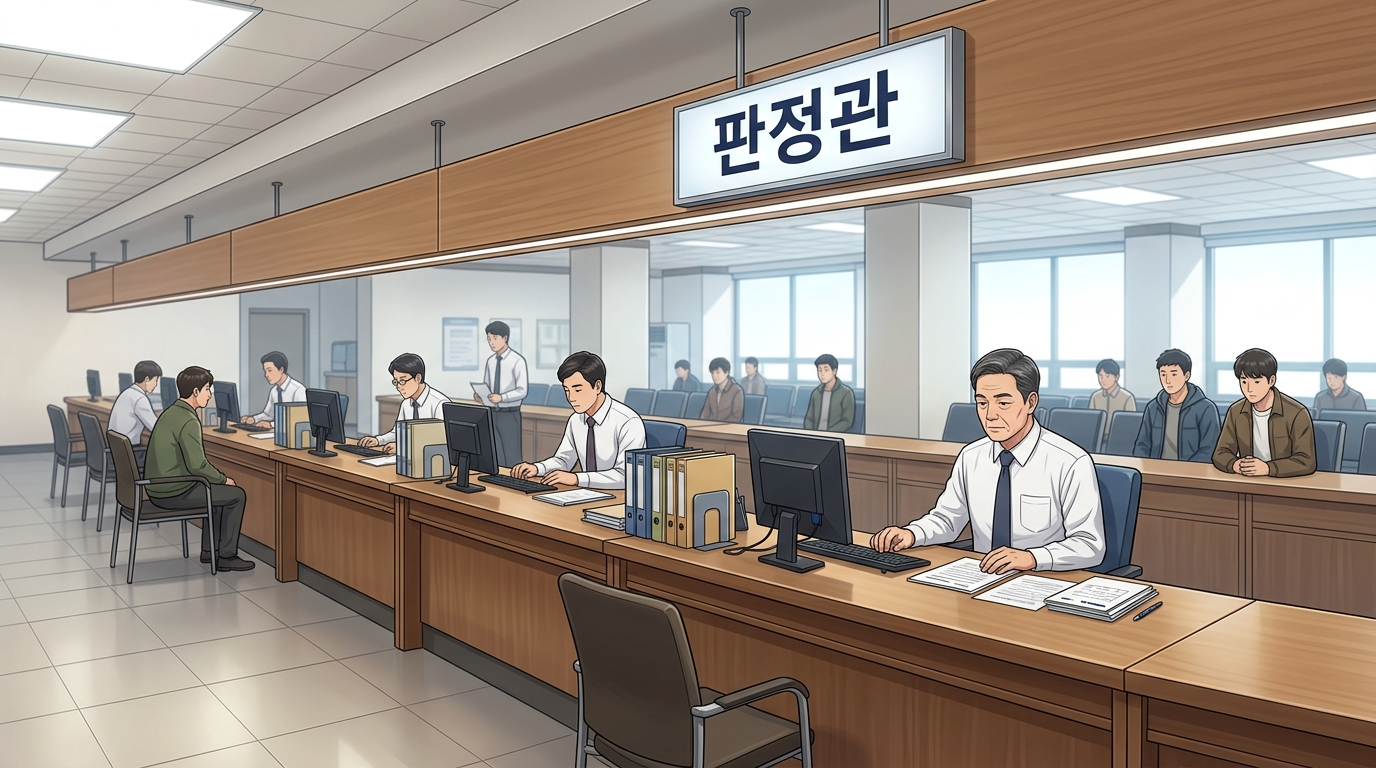
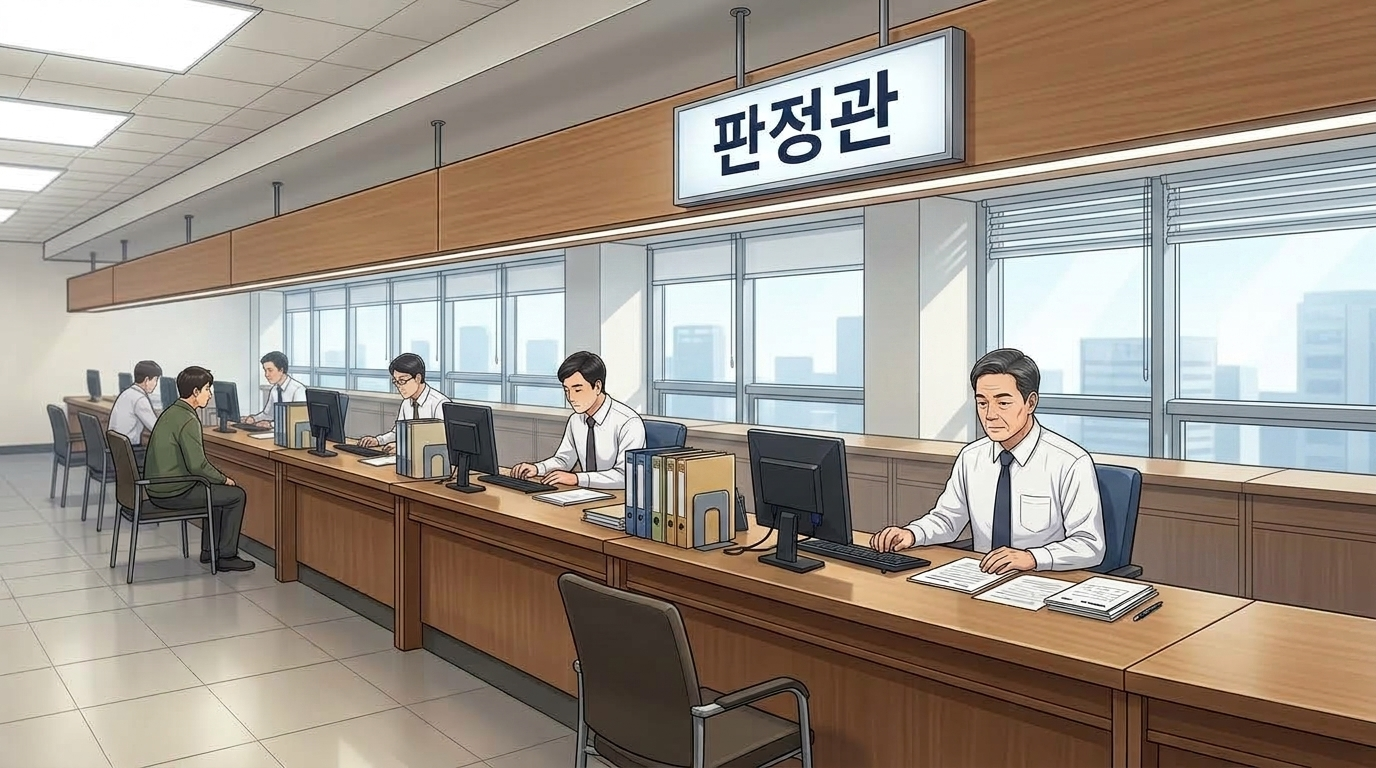
Design: 수석판정관실 배경 수정 - 뒤편 대기 인원 제거 및 판정관 뒷자리 통창(창문) 배치

diff --git a/index.html b/index.html
@@ -1170,7 +1170,7 @@
 
   <!-- ================= [SCRIPT: 비주얼 노벨 인터랙티브 엔진] ================= -->
   <script>
-    const ASSET_VER = '20260907_v195_29';
+    const ASSET_VER = '20260907_v195_30';
     function getAssetUrl(url) {
       if (!url) return '';
       if (url.includes('?')) return url;
